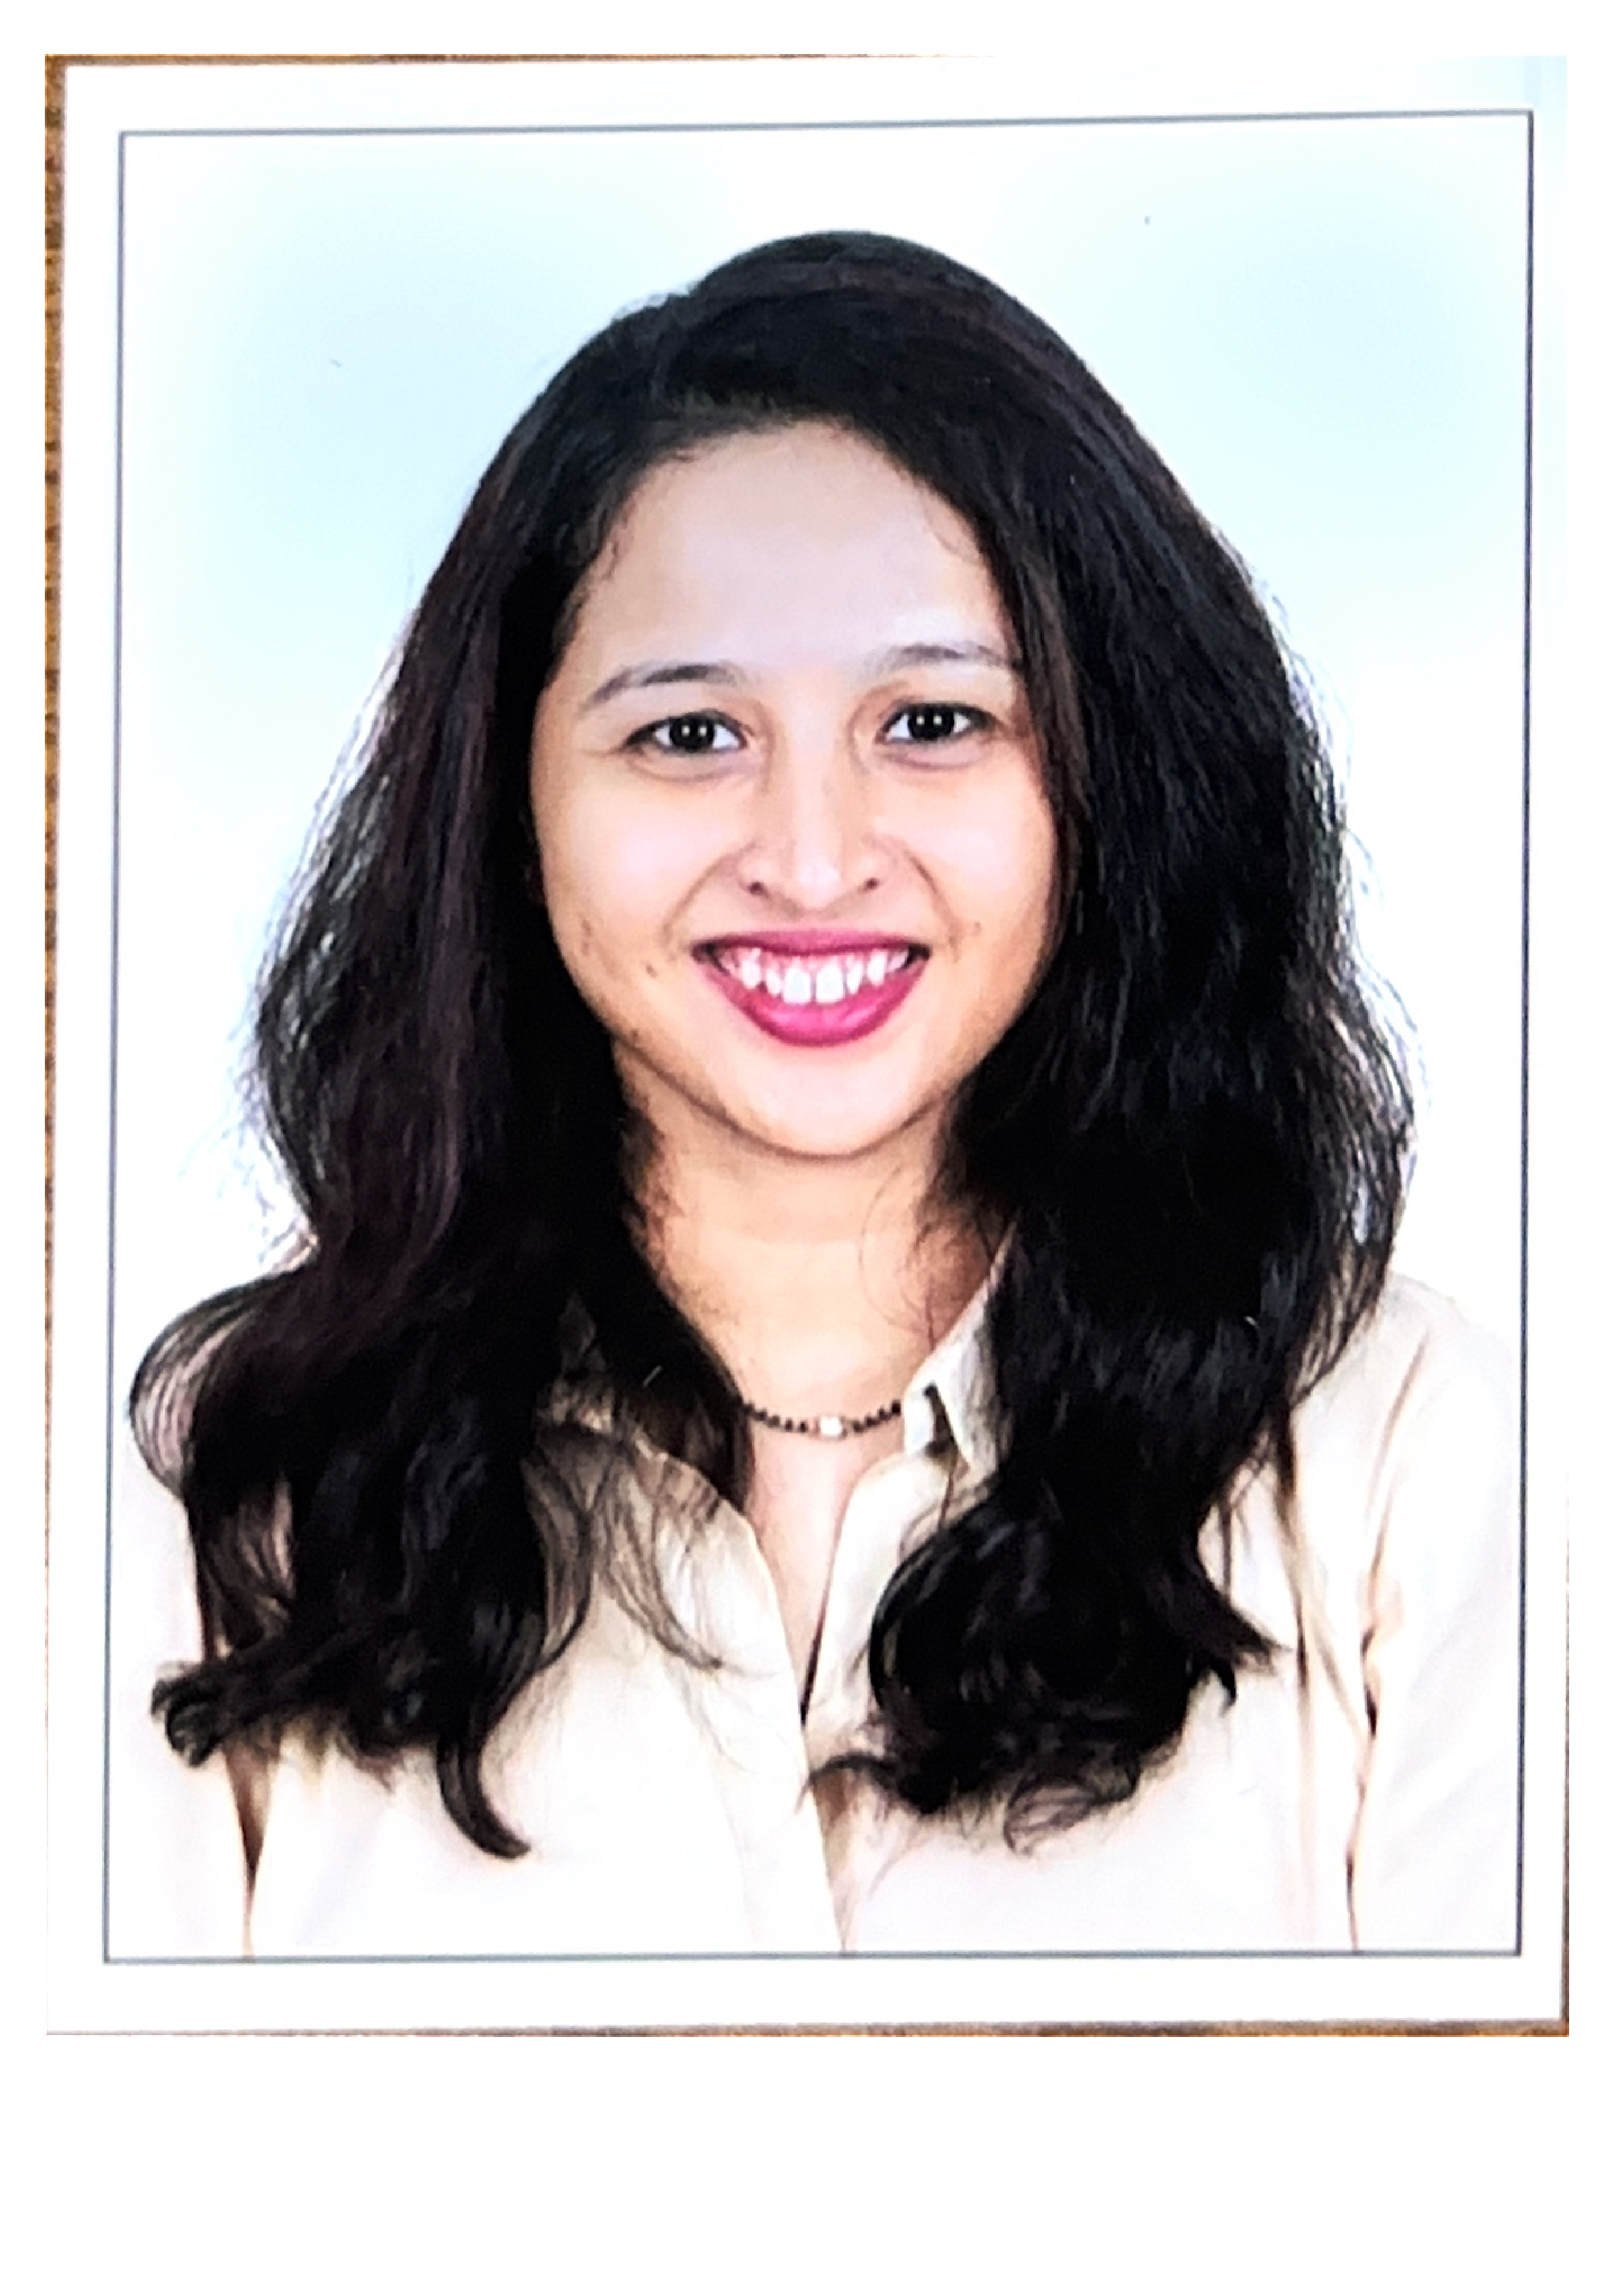
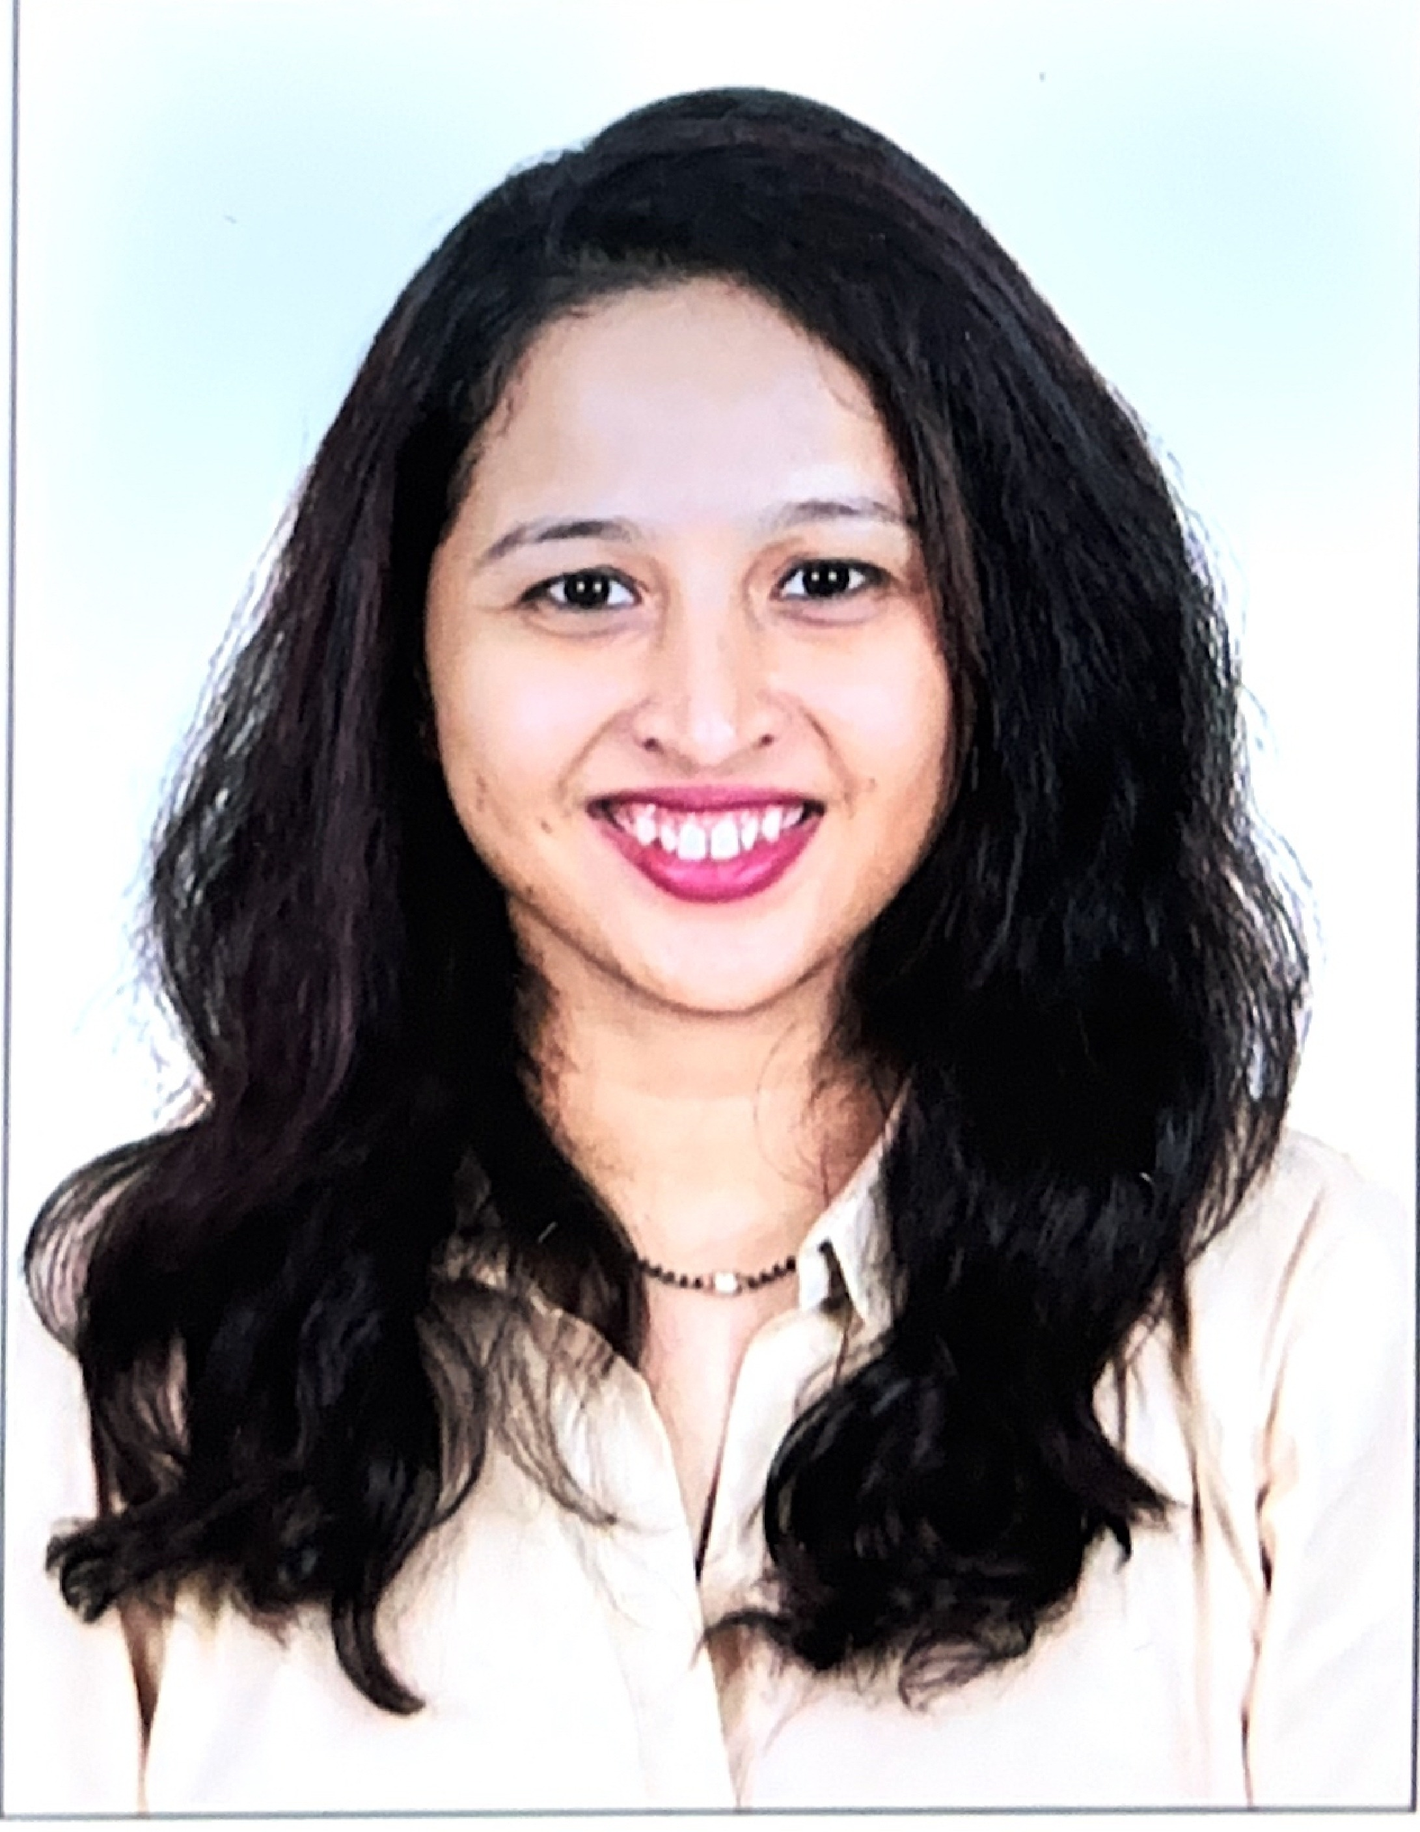
✨ Enhance administrative staff display with specialty and refined employment status handling; update image dimensions for better layout.

diff --git a/client/src/Views/People-Section/AdministrativeStaff/AdministrativeStaff.css b/client/src/Views/People-Section/AdministrativeStaff/AdministrativeStaff.css
@@ -81,9 +81,9 @@
 
 .administrative-staff-image {
     width: 220px;
-    height: 280px;
+    height: 220px;
     border-radius: 8px;
-    overflow: hidden;
+    overflow: fill;
     margin: 0 auto 20px;
     border: 3px solid #e0e0e0;
 }
@@ -91,7 +91,7 @@
 .administrative-staff-image img {
     width: 100%;
     height: 100%;
-    object-fit: cover;
+    object-fit: fill !important;
 }
 
 .administrative-staff-info {
@@ -120,6 +120,20 @@
     font-weight: 600;
     color: #424242;
     margin-bottom: 6px;
+    overflow: hidden;
+    display: -webkit-box;
+    -webkit-line-clamp: 2;
+    line-clamp: 2;
+    -webkit-box-orient: vertical;
+    text-overflow: ellipsis;
+}
+
+.administrative-staff-specialty {
+    font-size: 13px;
+    font-weight: 400;
+    color: #666;
+    margin-bottom: 8px;
+    font-style: italic;
     overflow: hidden;
     display: -webkit-box;
     -webkit-line-clamp: 2;
@@ -169,19 +183,20 @@
 /* Responsive Design */
 @media (max-width: 768px) {
     .administrative-staff-container {
-        padding: 0 15px;
+        padding: 0 30px;
     }
     
     .administrative-staff-grid {
-        grid-template-columns: 1fr;
+        grid-template-columns: repeat(auto-fit, minmax(300px, 1fr));
         gap: 20px;
+        padding: 15px 0;
     }
     
     .administrative-staff-card {
+        height: 460px;
+        min-height: 460px;
+        max-height: 460px;
         padding: 20px;
-        height: 420px;
-        min-height: 420px;
-        max-height: 420px;
     }
     
     .administrative-staff-image {
@@ -194,7 +209,7 @@
     .administrative-staff-image img {
         width: 100%;
         height: 100%;
-        object-fit: cover;
+        object-fit: cover !important;
     }
     
     .administrative-staff-name {
@@ -203,6 +218,11 @@
     
     .administrative-staff-designation {
         font-size: 15px;
+    }
+    
+    .administrative-staff-specialty {
+        font-size: 12px;
+        margin-bottom: 6px;
     }
     
     .administrative-staff-current-department {
@@ -219,9 +239,9 @@
     
     .administrative-staff-card {
         padding: 15px;
-        height: 400px;
-        min-height: 400px;
-        max-height: 400px;
+        height: 420px;
+        min-height: 420px;
+        max-height: 420px;
     }
     
     .administrative-staff-image {
@@ -234,7 +254,7 @@
     .administrative-staff-image img {
         width: 100%;
         height: 100%;
-        object-fit: cover;
+        object-fit: cover !important;
     }
     
     .administrative-staff-name {
@@ -243,6 +263,11 @@
     
     .administrative-staff-designation {
         font-size: 14px;
+    }
+    
+    .administrative-staff-specialty {
+        font-size: 11px;
+        margin-bottom: 5px;
     }
     
     .administrative-staff-current-department {
@@ -267,15 +292,20 @@
     
     .administrative-staff-card {
         max-width: 420px;
-        height: 500px;
-        min-height: 500px;
-        max-height: 500px;
+        height: 520px;
+        min-height: 520px;
+        max-height: 520px;
         padding: 30px;
     }
     
     .administrative-staff-image {
         width: 240px;
         height: 240px;
+    }
+    
+    .administrative-staff-specialty {
+        font-size: 14px;
+        margin-bottom: 10px;
     }
     
     .current-department {
@@ -347,6 +377,10 @@
 
 .administrative-staff-page.dark .administrative-staff-designation {
     color: #b0bec5;
+}
+
+.administrative-staff-page.dark .administrative-staff-specialty {
+    color: #78909c;
 }
 
 .administrative-staff-page.dark .administrative-staff-department {

diff --git a/client/src/Views/People-Section/AdministrativeStaff/AdministrativeStaff.js b/client/src/Views/People-Section/AdministrativeStaff/AdministrativeStaff.js
@@ -17,13 +17,6 @@ const AdministrativeStaff = () => {
                 
                 if (result.success) {
                     setStaffData(result.data);
-                    // Debug: Check if employment_status is being received
-                    console.log('Administrative staff data with employment_status:', 
-                        result.data.filter(staff => staff.employment_status).map(staff => ({
-                            name: staff.name,
-                            employment_status: staff.employment_status
-                        }))
-                    );
                 } else {
                     setError('Failed to fetch administrative staff data');
                 }
@@ -47,6 +40,23 @@ const AdministrativeStaff = () => {
     // Function to format the name with honorific
     const formatName = (staff) => {
         return staff.honorific ? `${staff.honorific} ${staff.name}` : staff.name;
+    };
+
+    // Function to get specialty or employment status for display
+    const getSpecialtyOrStatus = (staff) => {
+        // First check if there's a specialty from staff_profiles
+        if (staff.specialty && staff.specialty.trim()) {
+            return `(${staff.specialty})`;
+        }
+        
+        // Then check employment status (but don't show if it's "Permanent")
+        if (staff.employment_status && 
+            staff.employment_status.trim() && 
+            staff.employment_status.toLowerCase() !== 'permanent') {
+            return `(${staff.employment_status})`;
+        }
+        
+        return null;
     };
 
     return (
@@ -108,8 +118,13 @@ const AdministrativeStaff = () => {
                                 <div className="administrative-staff-info">
                                     <h3 className="administrative-staff-name">{formatName(staff)}</h3>
                                     <p className="administrative-staff-designation">{staff.designation}</p>
-                                    {staff.employment_status && <p className="administrative-staff-employment">{staff.employment_status}</p>}
-                                    <p className="administrative-staff-department">{staff.department_name || 'Administration'}</p>
+                                    {getSpecialtyOrStatus(staff) && (
+                                        <p className="administrative-staff-specialty">{getSpecialtyOrStatus(staff)}</p>
+                                    )}
+                                    {staff.department_name && 
+                                     staff.department_name !== 'General Administration' && (
+                                        <p className="administrative-staff-department">{staff.department_name}</p>
+                                    )}
                                     <div className="administrative-staff-contact">
                                         <p><strong>Email:</strong> {staff.email}</p>
                                         <p><strong>Extension No.:</strong> {staff.phone}</p>
